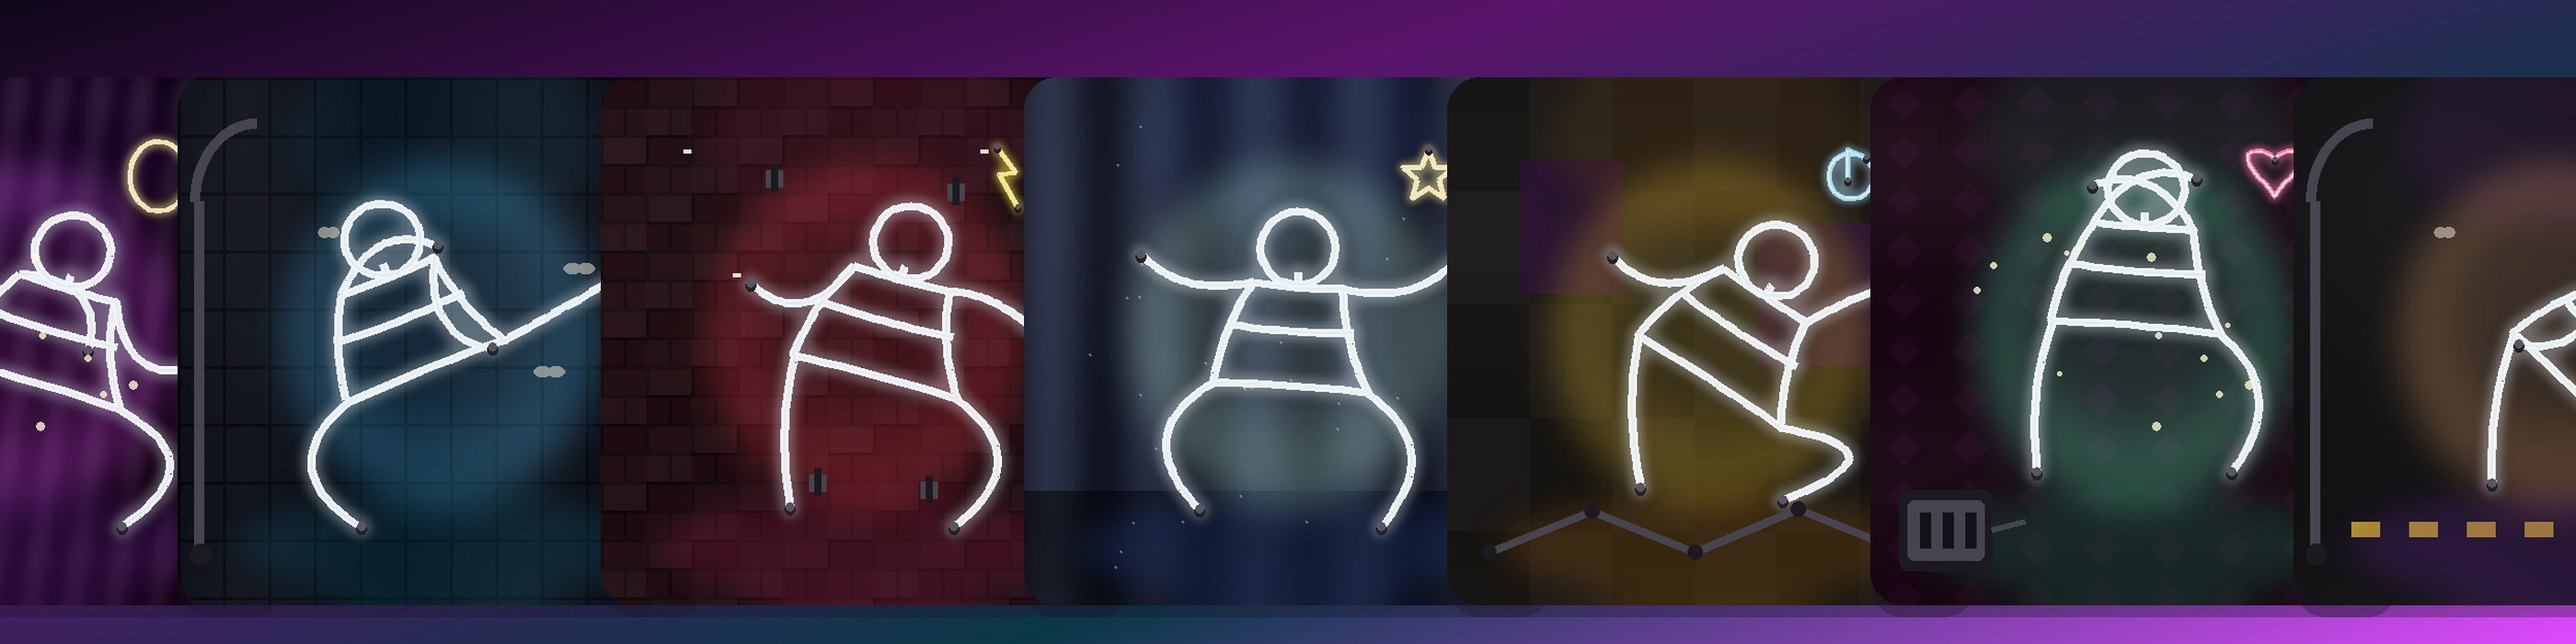
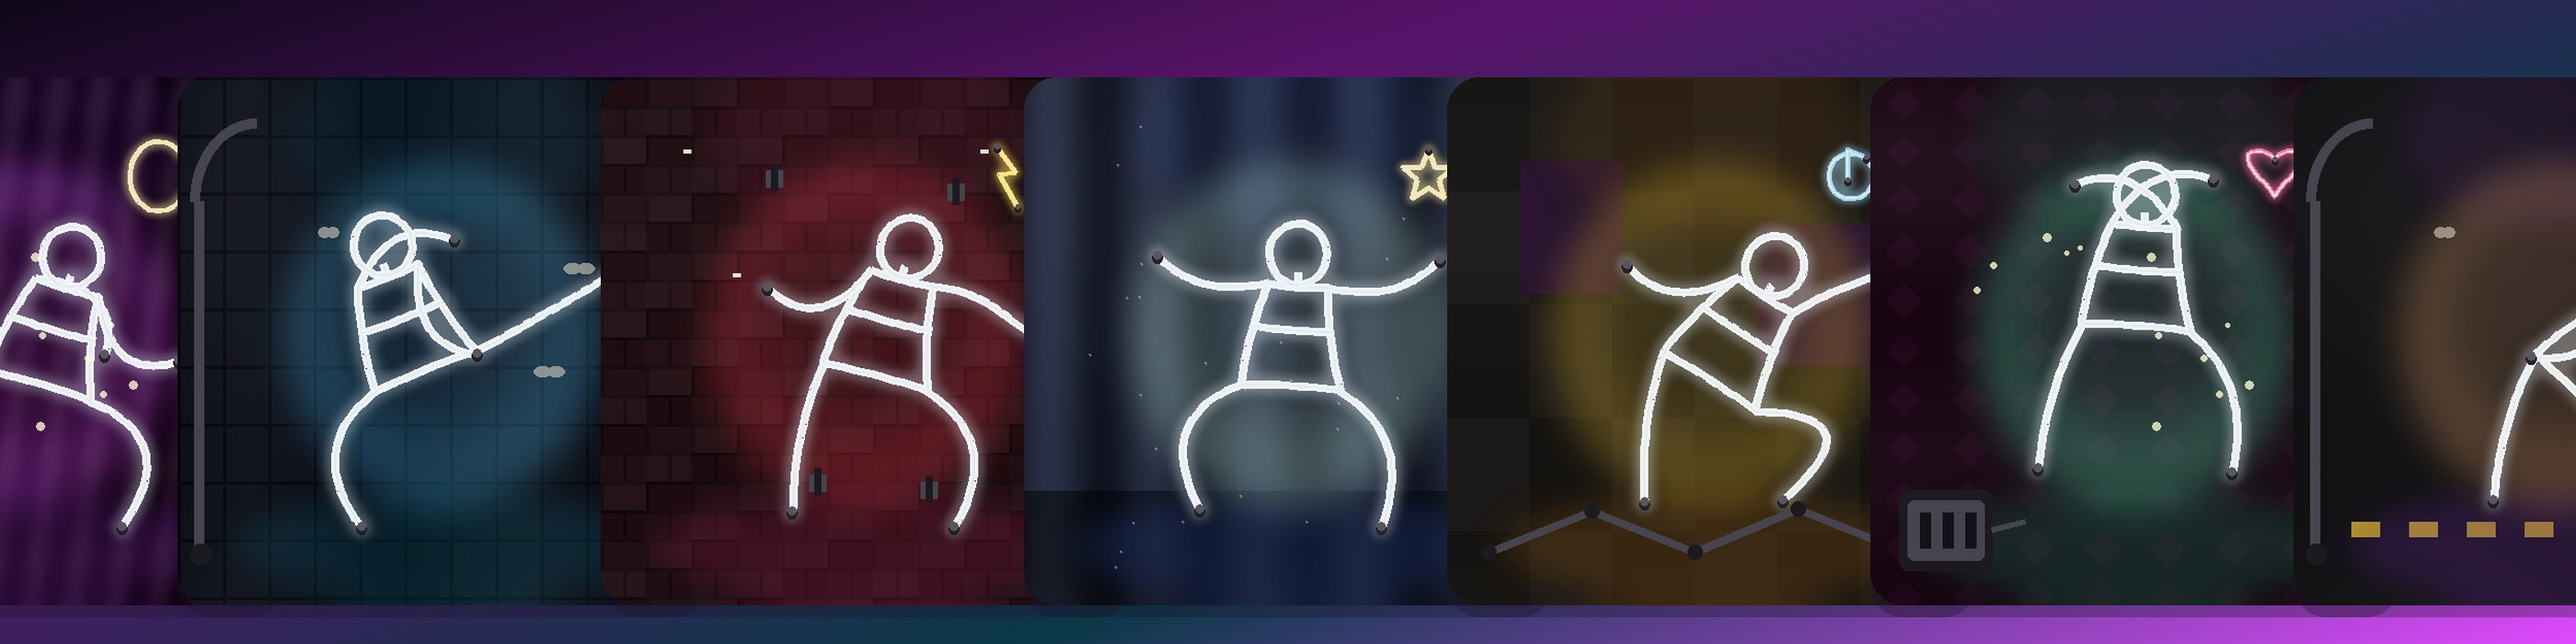
Slim Noxelle hulls so the glass body reads as a dancer, not a billboard.
Shoulders and hips drop about a third, with a smaller head and less side bulge, while the trapezoid and corner-docked limbs stay.

diff --git a/src/data/noxelle-gallery.ts b/src/data/noxelle-gallery.ts
@@ -9,7 +9,7 @@ export const noxelleSamples: NoxelleSample[] = [
   {
     id: 1,
     name: "Tube #1",
-    image: "/noxelle-preview/1.gif?v=2",
+    image: "/noxelle-preview/1.gif?v=3",
     attributes: [
       { trait_type: "Wall", value: "Velvet Wall" },
       { trait_type: "Spill", value: "Grape Spill" },
@@ -23,7 +23,7 @@ export const noxelleSamples: NoxelleSample[] = [
   {
     id: 2,
     name: "Tube #2",
-    image: "/noxelle-preview/2.gif?v=2",
+    image: "/noxelle-preview/2.gif?v=3",
     attributes: [
       { trait_type: "Wall", value: "Tile Wall" },
       { trait_type: "Spill", value: "Lagoon Spill" },
@@ -37,7 +37,7 @@ export const noxelleSamples: NoxelleSample[] = [
   {
     id: 3,
     name: "Tube #3",
-    image: "/noxelle-preview/3.gif?v=2",
+    image: "/noxelle-preview/3.gif?v=3",
     attributes: [
       { trait_type: "Wall", value: "Brick Wall" },
       { trait_type: "Spill", value: "Cherry Spill" },
@@ -51,7 +51,7 @@ export const noxelleSamples: NoxelleSample[] = [
   {
     id: 4,
     name: "Tube #4",
-    image: "/noxelle-preview/4.gif?v=2",
+    image: "/noxelle-preview/4.gif?v=3",
     attributes: [
       { trait_type: "Wall", value: "Chrome Wall" },
       { trait_type: "Spill", value: "Ice Spill" },
@@ -65,7 +65,7 @@ export const noxelleSamples: NoxelleSample[] = [
   {
     id: 5,
     name: "Tube #5",
-    image: "/noxelle-preview/5.gif?v=2",
+    image: "/noxelle-preview/5.gif?v=3",
     attributes: [
       { trait_type: "Wall", value: "Alley Wall" },
       { trait_type: "Spill", value: "Honey Spill" },
@@ -79,7 +79,7 @@ export const noxelleSamples: NoxelleSample[] = [
   {
     id: 6,
     name: "Tube #6",
-    image: "/noxelle-preview/6.gif?v=2",
+    image: "/noxelle-preview/6.gif?v=3",
     attributes: [
       { trait_type: "Wall", value: "Booth Wall" },
       { trait_type: "Spill", value: "Mint Spill" },
@@ -93,7 +93,7 @@ export const noxelleSamples: NoxelleSample[] = [
   {
     id: 7,
     name: "Tube #7",
-    image: "/noxelle-preview/7.gif?v=2",
+    image: "/noxelle-preview/7.gif?v=3",
     attributes: [
       { trait_type: "Wall", value: "Parking Wall" },
       { trait_type: "Spill", value: "Grape Spill" },
@@ -107,7 +107,7 @@ export const noxelleSamples: NoxelleSample[] = [
   {
     id: 8,
     name: "Tube #8",
-    image: "/noxelle-preview/8.gif?v=2",
+    image: "/noxelle-preview/8.gif?v=3",
     attributes: [
       { trait_type: "Wall", value: "Glass Wall" },
       { trait_type: "Spill", value: "Lagoon Spill" },
@@ -121,7 +121,7 @@ export const noxelleSamples: NoxelleSample[] = [
   {
     id: 9,
     name: "Tube #9",
-    image: "/noxelle-preview/9.gif?v=2",
+    image: "/noxelle-preview/9.gif?v=3",
     attributes: [
       { trait_type: "Wall", value: "Velvet Wall" },
       { trait_type: "Spill", value: "Cherry Spill" },
@@ -135,7 +135,7 @@ export const noxelleSamples: NoxelleSample[] = [
   {
     id: 10,
     name: "Tube #10",
-    image: "/noxelle-preview/10.gif?v=2",
+    image: "/noxelle-preview/10.gif?v=3",
     attributes: [
       { trait_type: "Wall", value: "Tile Wall" },
       { trait_type: "Spill", value: "Honey Spill" },
@@ -149,7 +149,7 @@ export const noxelleSamples: NoxelleSample[] = [
   {
     id: 11,
     name: "Tube #11",
-    image: "/noxelle-preview/11.gif?v=2",
+    image: "/noxelle-preview/11.gif?v=3",
     attributes: [
       { trait_type: "Wall", value: "Brick Wall" },
       { trait_type: "Spill", value: "Mint Spill" },
@@ -163,7 +163,7 @@ export const noxelleSamples: NoxelleSample[] = [
   {
     id: 12,
     name: "Tube #12",
-    image: "/noxelle-preview/12.gif?v=2",
+    image: "/noxelle-preview/12.gif?v=3",
     attributes: [
       { trait_type: "Wall", value: "Chrome Wall" },
       { trait_type: "Spill", value: "Grape Spill" },
@@ -177,7 +177,7 @@ export const noxelleSamples: NoxelleSample[] = [
   {
     id: 13,
     name: "Tube #13",
-    image: "/noxelle-preview/13.gif?v=2",
+    image: "/noxelle-preview/13.gif?v=3",
     attributes: [
       { trait_type: "Wall", value: "Alley Wall" },
       { trait_type: "Spill", value: "Ice Spill" },
@@ -191,7 +191,7 @@ export const noxelleSamples: NoxelleSample[] = [
   {
     id: 14,
     name: "Tube #14",
-    image: "/noxelle-preview/14.gif?v=2",
+    image: "/noxelle-preview/14.gif?v=3",
     attributes: [
       { trait_type: "Wall", value: "Booth Wall" },
       { trait_type: "Spill", value: "Lagoon Spill" },
@@ -205,7 +205,7 @@ export const noxelleSamples: NoxelleSample[] = [
   {
     id: 15,
     name: "Tube #15",
-    image: "/noxelle-preview/15.gif?v=2",
+    image: "/noxelle-preview/15.gif?v=3",
     attributes: [
       { trait_type: "Wall", value: "Parking Wall" },
       { trait_type: "Spill", value: "Cherry Spill" },
@@ -219,7 +219,7 @@ export const noxelleSamples: NoxelleSample[] = [
   {
     id: 16,
     name: "Tube #16",
-    image: "/noxelle-preview/16.gif?v=2",
+    image: "/noxelle-preview/16.gif?v=3",
     attributes: [
       { trait_type: "Wall", value: "Glass Wall" },
       { trait_type: "Spill", value: "Honey Spill" },

diff --git a/src/app/noxelle/gallery/page.tsx b/src/app/noxelle/gallery/page.tsx
@@ -55,7 +55,7 @@ export default function NoxelleGalleryPage() {
         {extraPreviews.map((id) => (
           <article key={id} className="overflow-hidden rounded-2xl border bg-card">
             <ApngImage
-              src={`/noxelle-preview/${id}.gif?v=2`}
+              src={`/noxelle-preview/${id}.gif?v=3`}
               alt={`Tube #${id}`}
               width={512}
               height={512}

diff --git a/src/data/noxelle-traits.ts b/src/data/noxelle-traits.ts
@@ -14,7 +14,7 @@ export type NoxelleTraitCategory = {
 };
 
 /** Bump when APNG layers change so the studio does not keep a stale loop. */
-export const NOXELLE_ART_VERSION = "noxelle-v2";
+export const NOXELLE_ART_VERSION = "noxelle-v3";
 
 export const NOXELLE_FRAMES = 12;
 export const NOXELLE_DURATION_MS = 90;

diff --git a/scripts/build_noxelle.py b/scripts/build_noxelle.py
@@ -89,8 +89,8 @@ FOREARM = 54.0
 THIGH = 72.0
 SHIN = 76.0
 FLOOR_Y = 436.0
-BODY_TOP = 46.0
-BODY_BOT = 78.0
+BODY_TOP = 30.0
+BODY_BOT = 50.0
 STAND_Y = 300.0
 
 
@@ -458,14 +458,14 @@ def bend_figure(kind: str, frame: int) -> tuple[list[list[Pt]], list[Pt], list[P
         r_elb, r_hand = two_bone_fk(r_sh, r_arm[0], UPPER_ARM, r_arm[1], FOREARM)
 
     squash = 1.0 + 0.08 * s2
-    head = head_loop(neck, head_tilt, rx=34.0 * squash, ry=38.0 / squash)
+    head = head_loop(neck, head_tilt, rx=26.0 * squash, ry=32.0 / squash)
     if wave_mid is not None:
         right_arm = cubic(r_sh, r_elb, wave_mid, r_hand, n=28)
     else:
         right_arm = bezier_through(r_sh, r_elb, r_hand)
     tubes = [
-        hull_loop(top_l, top_r, bot_r, bot_l, 8.0 + 0.25 * arch),
-        glass(chest_l, chest_r, bulge=5.0, n=14, overlap=4.0),
+        hull_loop(top_l, top_r, bot_r, bot_l, 4.0 + 0.18 * arch),
+        glass(chest_l, chest_r, bulge=3.0, n=14, overlap=4.0),
         glass(lerp(top_l, top_r, 0.5), neck_into_head, bulge=0.0, n=8, overlap=6.0),
         bezier_through(l_hip, l_knee, l_end),
         bezier_through(r_hip, r_knee, r_end),
@@ -894,7 +894,7 @@ def write_ts_gallery(samples: list[dict]) -> None:
             "  {\n"
             f"    id: {sample['id']},\n"
             f'    name: "{sample["name"]}",\n'
-            f'    image: "{sample["image"]}?v=2",\n'
+            f'    image: "{sample["image"]}?v=3",\n'
             f"    attributes: [\n      {attrs},\n    ],\n"
             "  }"
         )
@@ -967,7 +967,7 @@ def write_ts_traits() -> None:
         "  traits: NoxelleTrait[];\n"
         "};\n\n"
         "/** Bump when APNG layers change so the studio does not keep a stale loop. */\n"
-        'export const NOXELLE_ART_VERSION = "noxelle-v2";\n\n'
+        'export const NOXELLE_ART_VERSION = "noxelle-v3";\n\n'
         "export const NOXELLE_FRAMES = 12;\n"
         "export const NOXELLE_DURATION_MS = 90;\n\n"
         "export function noxelleTraitSrc(path?: string) {\n"
